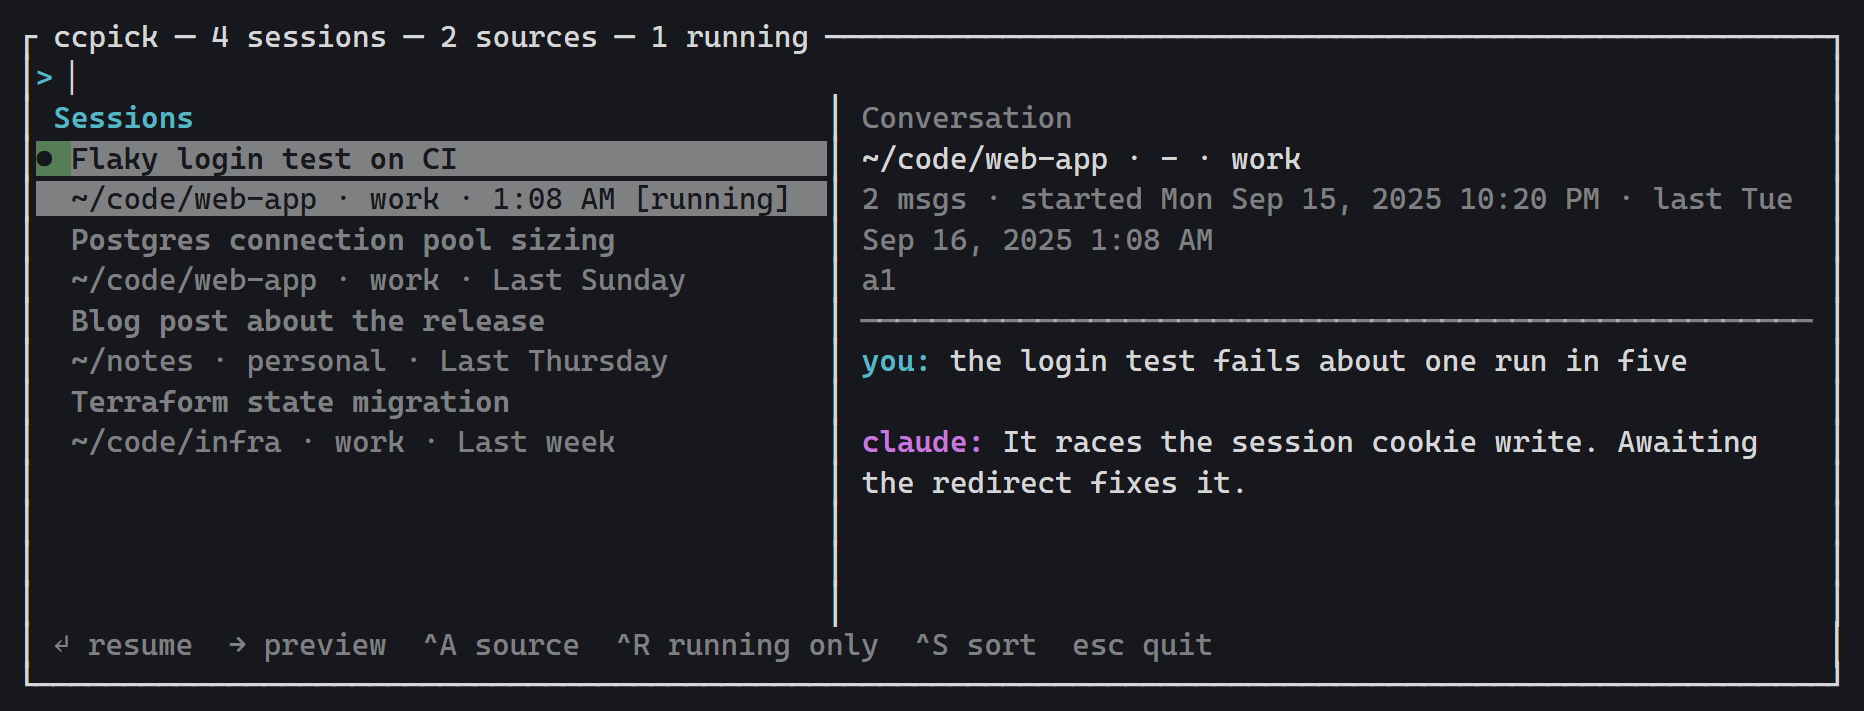
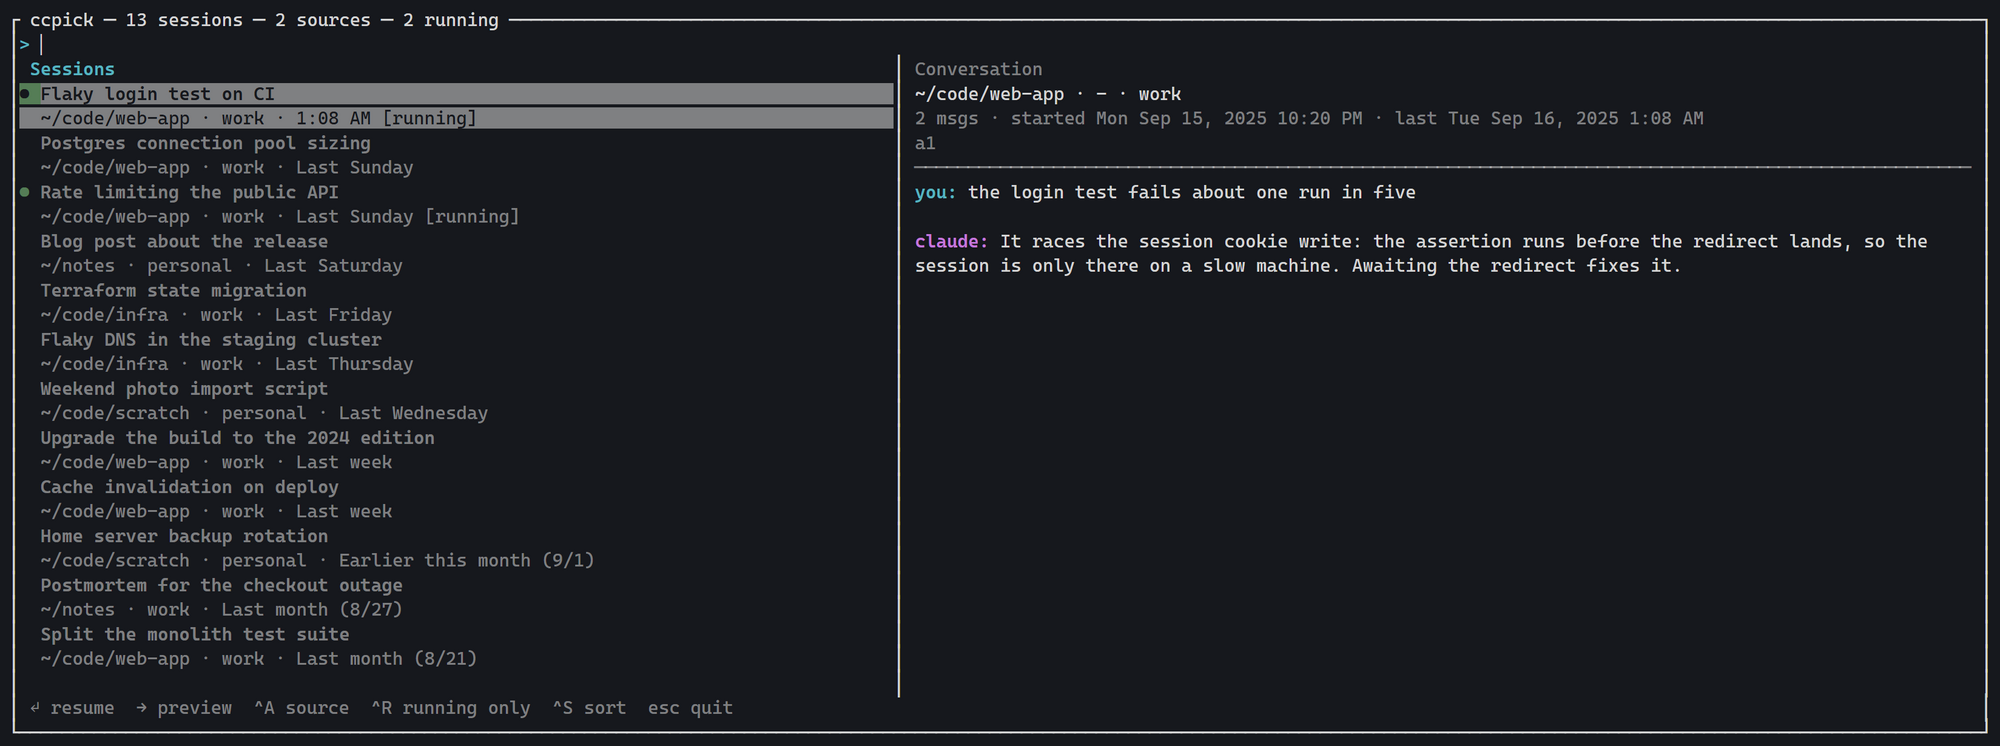
README: wider screenshot with a fuller session list
104 columns rendered far larger than the surrounding page text. 186 columns
and 30 rows put the glyphs at roughly half the size, and 13 sessions across
two sources (two of them running) show the list doing real work rather than
looking half empty.

Changed region(s): [[0.0, 0.0, 0.9957, 0.9902], [0.4979, 0.8973, 0.6534, 0.9283]]

diff --git a/src/ui/render.rs b/src/ui/render.rs
@@ -893,46 +893,130 @@ mod readme_shot {
                 (Role::User, "the login test fails about one run in five"),
                 (
                     Role::Assistant,
-                    "It races the session cookie write. Awaiting the redirect fixes it.",
+                    "It races the session cookie write: the assertion runs before the redirect \
+lands, so the session is only there on a slow machine. Awaiting the redirect fixes it.",
                 ),
             ],
         );
-        p.add_session(
-            "/s",
-            "b2",
-            "Postgres connection pool sizing",
-            NOW - 2 * DAY,
-            NOW - 26 * HOUR,
-            &[],
-        );
-        p.add_session(
-            "/t",
-            "c3",
-            "Blog post about the release",
-            NOW - 6 * DAY,
-            NOW - 5 * DAY,
-            &[],
-        );
-        p.add_session(
-            "/s",
-            "d4",
-            "Terraform state migration",
-            NOW - 9 * DAY,
-            NOW - 8 * DAY,
-            &[],
-        );
+        let sessions: &[(&str, &str, &str, &str, i64, i64)] = &[
+            (
+                "/s",
+                "b2",
+                "Postgres connection pool sizing",
+                "~/code/web-app",
+                2 * DAY,
+                26 * HOUR,
+            ),
+            (
+                "/s",
+                "c3",
+                "Rate limiting the public API",
+                "~/code/web-app",
+                2 * DAY,
+                2 * DAY,
+            ),
+            (
+                "/t",
+                "d4",
+                "Blog post about the release",
+                "~/notes",
+                6 * DAY,
+                3 * DAY,
+            ),
+            (
+                "/s",
+                "e5",
+                "Terraform state migration",
+                "~/code/infra",
+                9 * DAY,
+                4 * DAY,
+            ),
+            (
+                "/s",
+                "f6",
+                "Flaky DNS in the staging cluster",
+                "~/code/infra",
+                9 * DAY,
+                5 * DAY,
+            ),
+            (
+                "/t",
+                "g7",
+                "Weekend photo import script",
+                "~/code/scratch",
+                11 * DAY,
+                6 * DAY,
+            ),
+            (
+                "/s",
+                "h8",
+                "Upgrade the build to the 2024 edition",
+                "~/code/web-app",
+                14 * DAY,
+                8 * DAY,
+            ),
+            (
+                "/s",
+                "i9",
+                "Cache invalidation on deploy",
+                "~/code/web-app",
+                16 * DAY,
+                12 * DAY,
+            ),
+            (
+                "/t",
+                "j10",
+                "Home server backup rotation",
+                "~/code/scratch",
+                20 * DAY,
+                15 * DAY,
+            ),
+            (
+                "/s",
+                "k11",
+                "Postmortem for the checkout outage",
+                "~/notes",
+                24 * DAY,
+                20 * DAY,
+            ),
+            (
+                "/s",
+                "l12",
+                "Split the monolith test suite",
+                "~/code/web-app",
+                30 * DAY,
+                26 * DAY,
+            ),
+            (
+                "/t",
+                "m13",
+                "Reading list cleanup",
+                "~/notes",
+                40 * DAY,
+                33 * DAY,
+            ),
+        ];
+        for (store, id, title, cwd, first, last) in sessions {
+            p.add_session(store, id, title, NOW - first, NOW - last, &[]);
+            p.set_cwd(store, id, Some(cwd));
+        }
         p.set_cwd("/s", "a1", Some("~/code/web-app"));
-        p.set_cwd("/s", "b2", Some("~/code/web-app"));
-        p.set_cwd("/t", "c3", Some("~/notes"));
-        p.set_cwd("/s", "d4", Some("~/code/infra"));
         p.records.insert(
             "work".into(),
-            vec![LaunchRecord {
-                pid: 48120,
-                session_id: "a1".into(),
-                started_at_ms: NOW - 3 * HOUR,
-                alive: true,
-            }],
+            vec![
+                LaunchRecord {
+                    pid: 48120,
+                    session_id: "a1".into(),
+                    started_at_ms: NOW - 3 * HOUR,
+                    alive: true,
+                },
+                LaunchRecord {
+                    pid: 48771,
+                    session_id: "c3".into(),
+                    started_at_ms: NOW - 2 * DAY,
+                    alive: true,
+                },
+            ],
         );
         let mut catalog = crate::catalog::build_fake(p);
         // The preview labels assistant turns with the agent name; show the real one.
@@ -940,7 +1024,7 @@ mod readme_shot {
             session.meta.agent = "claude".into();
         }
         let mut app = App::new(Arc::new(catalog), "");
-        let (w, h) = (104u16, 17u16);
+        let (w, h) = (186u16, 30u16);
         let mut terminal = Terminal::new(TestBackend::new(w, h)).unwrap();
         terminal.draw(|f| draw(f, &mut app, NOW)).unwrap();
         let buffer = terminal.backend().buffer().clone();
